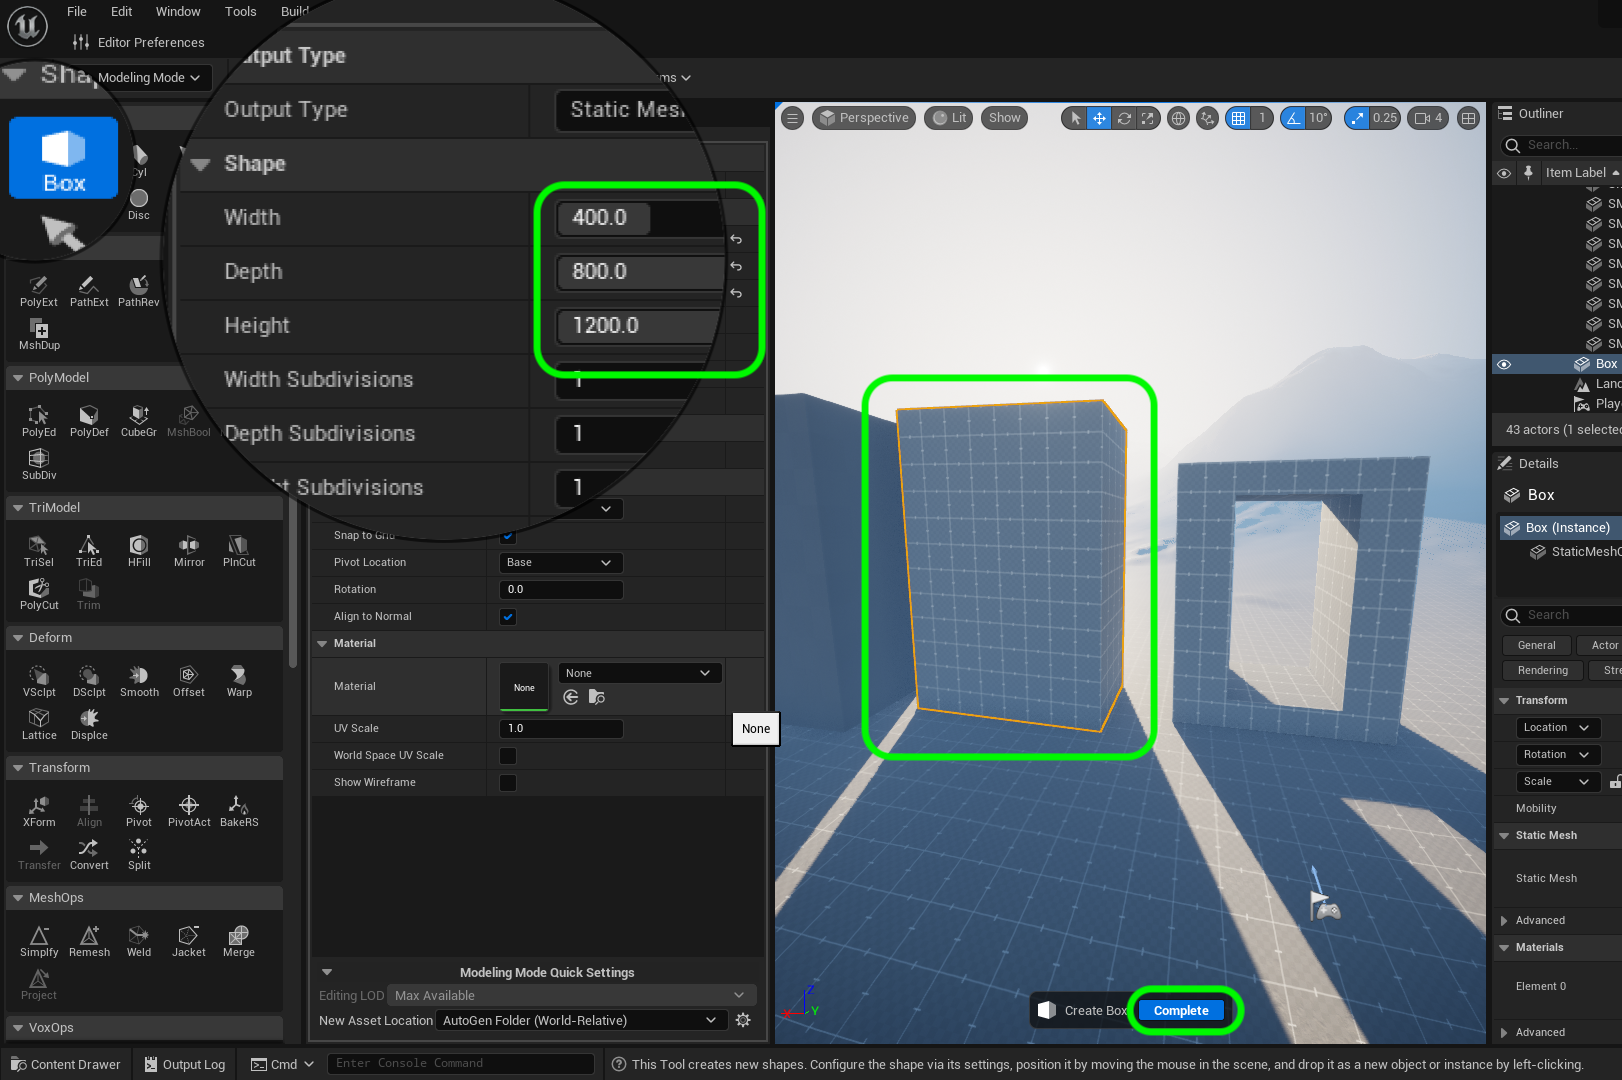
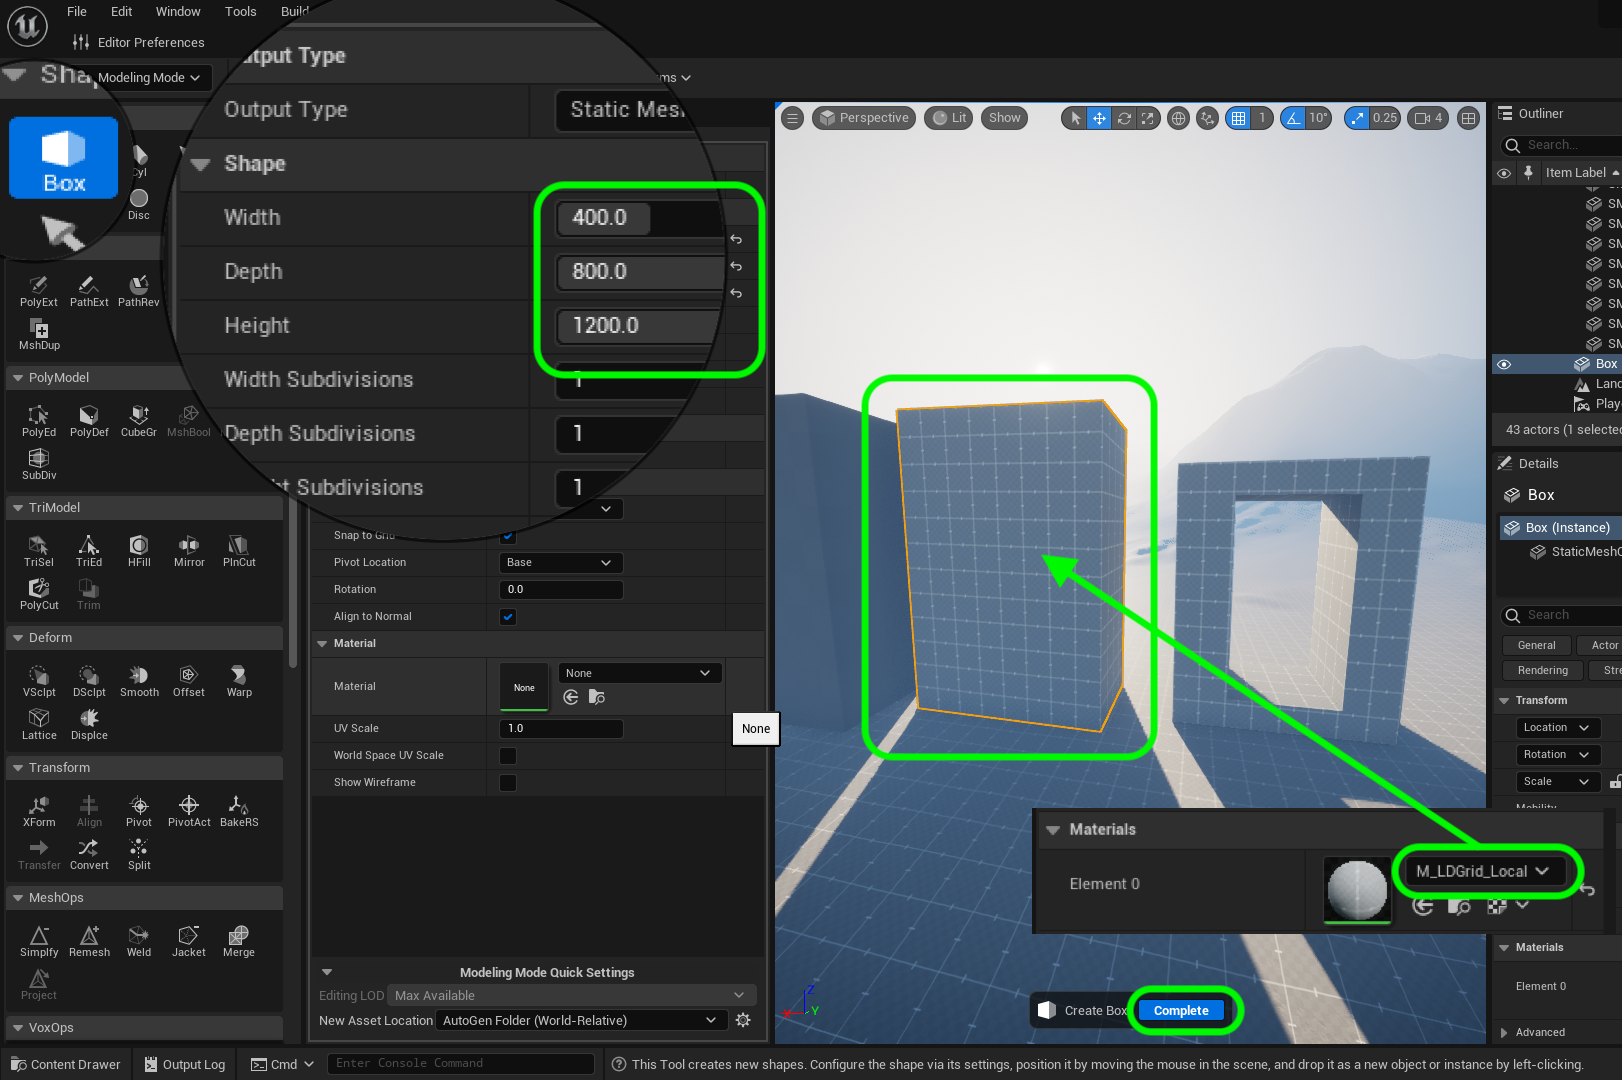
updating ld to ue5

diff --git a/gameplay-scale/README.md b/gameplay-scale/README.md
@@ -112,9 +112,9 @@ Lets fix this. Remake the first platform to be 1200 cm tall with a center 950 cm
 |Player Width | .84 m|
 |Double Jump Opening Height | 9.5 m|
 
-Create a new cube that is 
+Create a new cube that is a **Width** of `400`, **Depth** of `800` and **Height** of `1200`.  Assign the `M_LDGrid_Local** material to the box. Press the <kbd>Complete</kbd> button. 
 
-![create a new box that is 400 x 200 x 1200](images/newBoxSize.png)
+![create a new box that is 400 x 800 x 1200](images/newBoxSize.png)
 
 ![](../images/line2.png)
 
